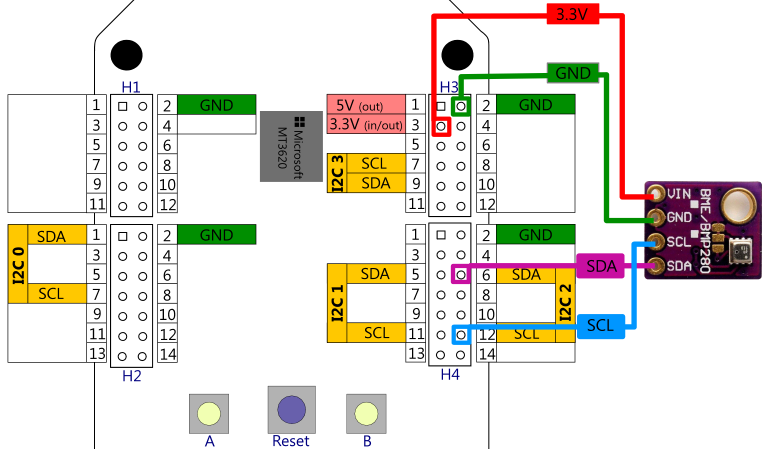
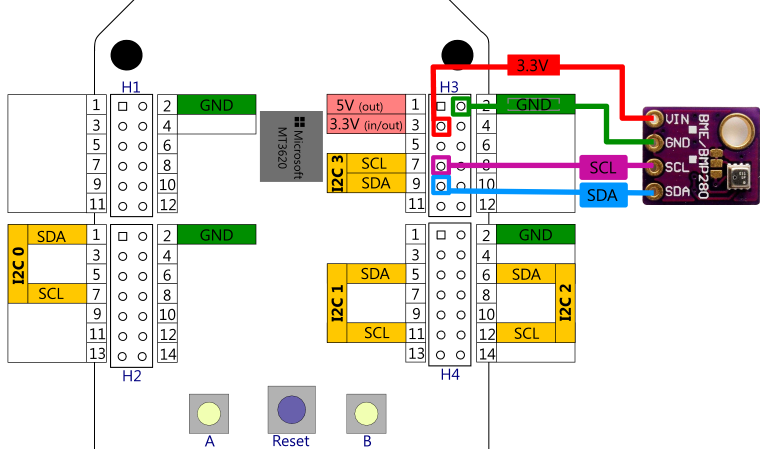
Updated Instructions and artwork to use ISU3

Changed region(s): [[0.5625, 0.2183, 1.0, 0.7795], [0.5625, 0.0, 0.8125, 0.2494]]

diff --git a/SphereBME280/README.MD b/SphereBME280/README.MD
@@ -13,12 +13,12 @@ This sensor is e.g. available as [Seeed Groove BME280 sensor board](http://wiki.
 There are multiple sensor boards for the BME280 available (the Seeed Grove BME280 mentioned above looks slightly different but offers to use a Grove connector cable)
 but essentially they all have the necessary power supply V(in) & GND and the I2C Pins *SDA* for data and *SCL* for clock called out on the printout.
 
-| Purpose  | MT3620           |  BME280  | Pictured wire below |
-|----------|------------------|:--------:|:-------------------:|
-|Ground    | Header 3, pin 2  | Gnd      | green               |
-|3.3 volts | Header 3, pin 3  | Vin/Vcc  | red                 |
-|Data      | Header 4, pin 6  | SDA      | purple              |
-|Clock     | Header 4, pin 12 | SCL      | blue                |
+| Purpose  | MT3620          |  BME280  | Pictured wire below |
+|----------|-----------------|:--------:|:-------------------:|
+|3.3 volts | Header 3, pin 3 | Vin/Vcc  | red                 |
+|Ground    | Header 3, pin 2 | Gnd      | green               |
+|Data      | Header 3, pin 7 | SCL      | purple              |
+|Clock     | Header 3, pin 9 | SDA      | blue                |
 
 ![MT3620 with connected DHT11 sensor](./Images/Lab_BME280.png)
 
@@ -174,6 +174,9 @@ Step 4. Run the  [`ShowIoTCentralConfig.exe`](https://github.com/Azure/azure-sph
 and copy&paste the settings into your *app_manifest.json*
 
 Step 5. Run the application and see telemetry visualized in the dashboard.
+
+![IoT Central: Device Dashboard](./Images/IoTC_Dashboard_Page.png)
+
 
 ---
 [Back to root](../README.MD#connecting-an-i2c-sensor-bosch-bme280-and-send-telemetry-to-azure-iot-central)
